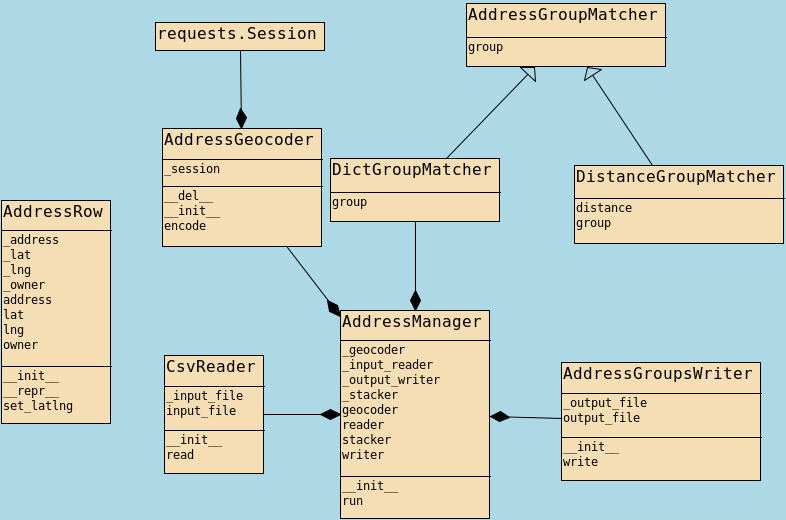
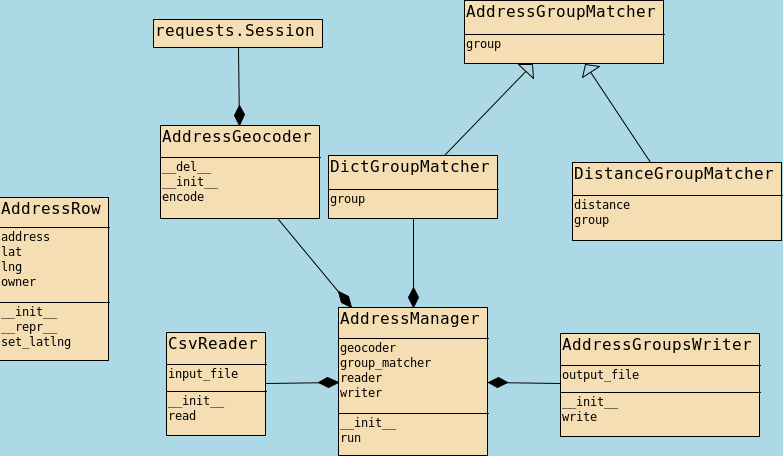
Replace stacker with group_matcher.

diff --git a/geocoding/geocoding.py b/geocoding/geocoding.py
@@ -13,7 +13,7 @@ from .group_matcher import DictGroupMatcher, DistanceGroupMatcher
 def main():
     input_file = input("Input file: ")
     output_file = input("Output file: ")
-    manager = AddressManager(input_file, output_file, stacker=DistanceGroupMatcher())
+    manager = AddressManager(input_file, output_file, group_matcher=DistanceGroupMatcher())
     manager.run()
 
 
@@ -35,11 +35,11 @@ class AddressGeocoder:
 
 
 class AddressManager:
-    def __init__(self, input_file, output_file, geo_encoder=None, stacker=None):
+    def __init__(self, input_file, output_file, geo_encoder=None, group_matcher=None):
         self._input_reader = CsvReader(input_file)
         self._output_writer = AddressGroupsWriter(output_file)
         self._geocoder = geo_encoder
-        self._stacker = stacker
+        self._group_matcher = group_matcher
 
     @property
     def reader(self):
@@ -56,12 +56,12 @@ class AddressManager:
         return self._geocoder
 
     @property
-    def stacker(self):
-        if self._stacker is None:
-            self._stacker = DictGroupMatcher()
-        return self._stacker
+    def group_matcher(self):
+        if self._group_matcher is None:
+            self._group_matcher = DictGroupMatcher()
+        return self._group_matcher
 
     def run(self):
         data = self.reader.read()
         self.geocoder.encode(data)
-        self.writer.write(self.stacker.group(data))
+        self.writer.write(self.group_matcher.group(data))

diff --git a/tests/test_geocoding.py b/tests/test_geocoding.py
@@ -111,7 +111,7 @@ class TestGeocoding(unittest.TestCase):
         manager = geocoding.AddressManager(
             input_file=Settings.input_file,
             output_file=Settings.output_file,
-            stacker=geocoding.DistanceGroupMatcher()
+            group_matcher=geocoding.DistanceGroupMatcher()
         )
 
         manager.run()
